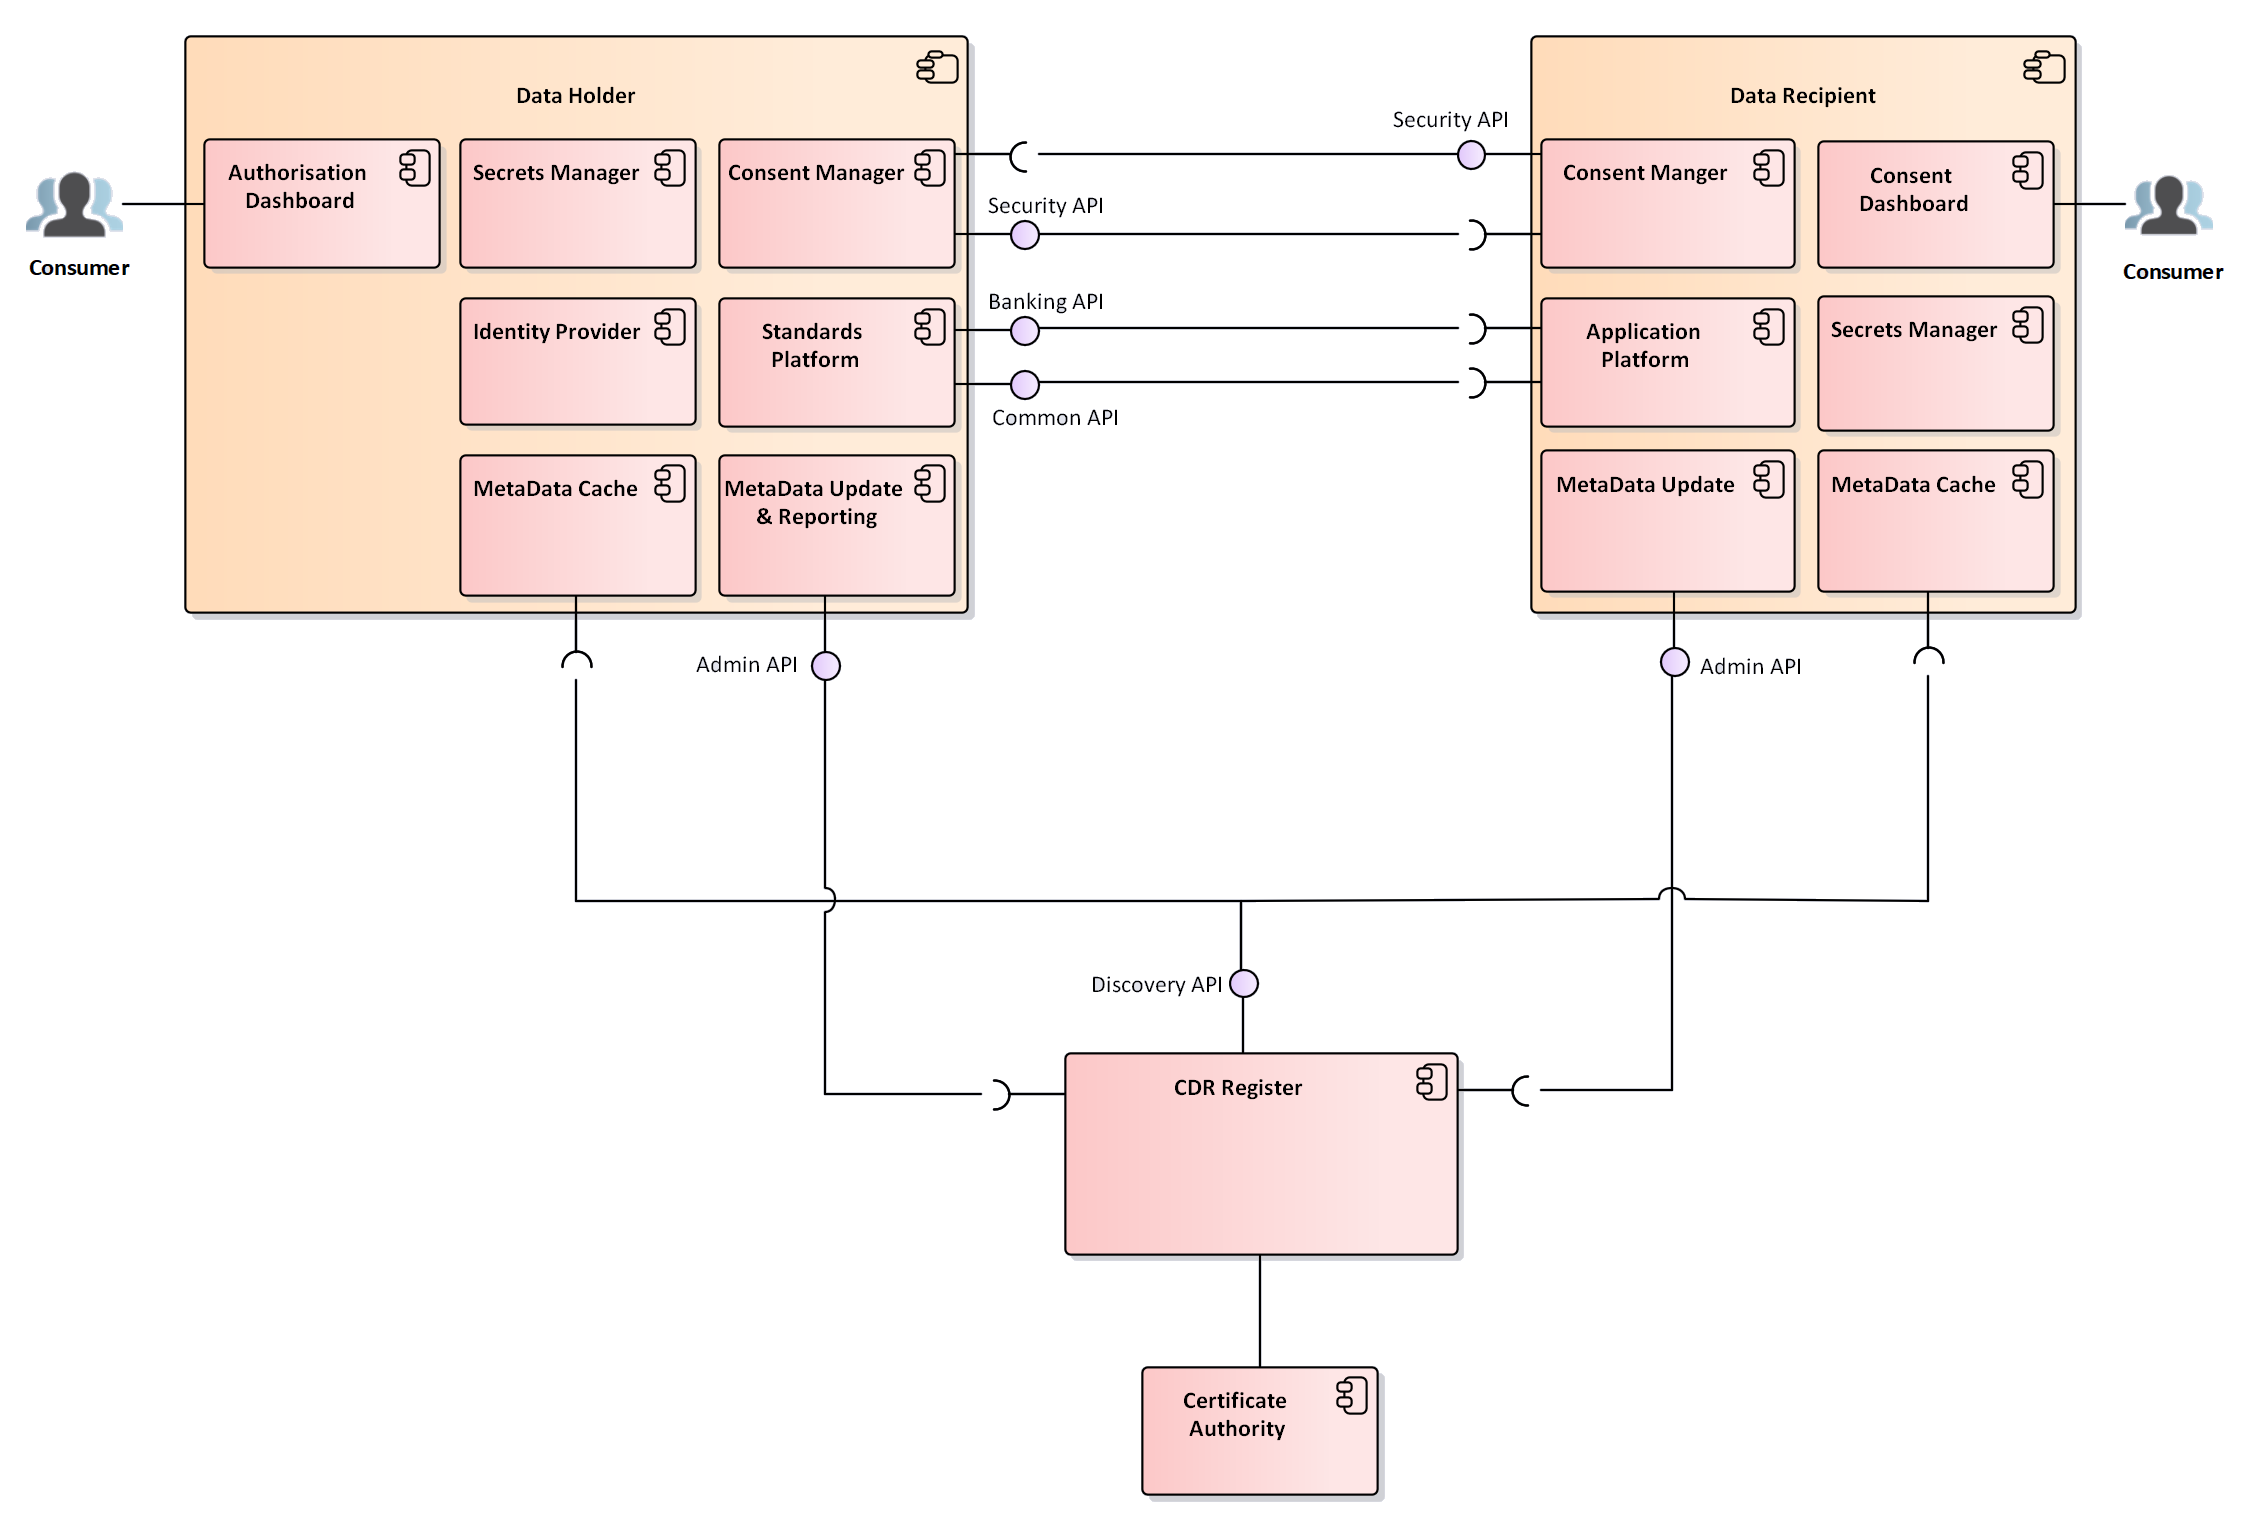
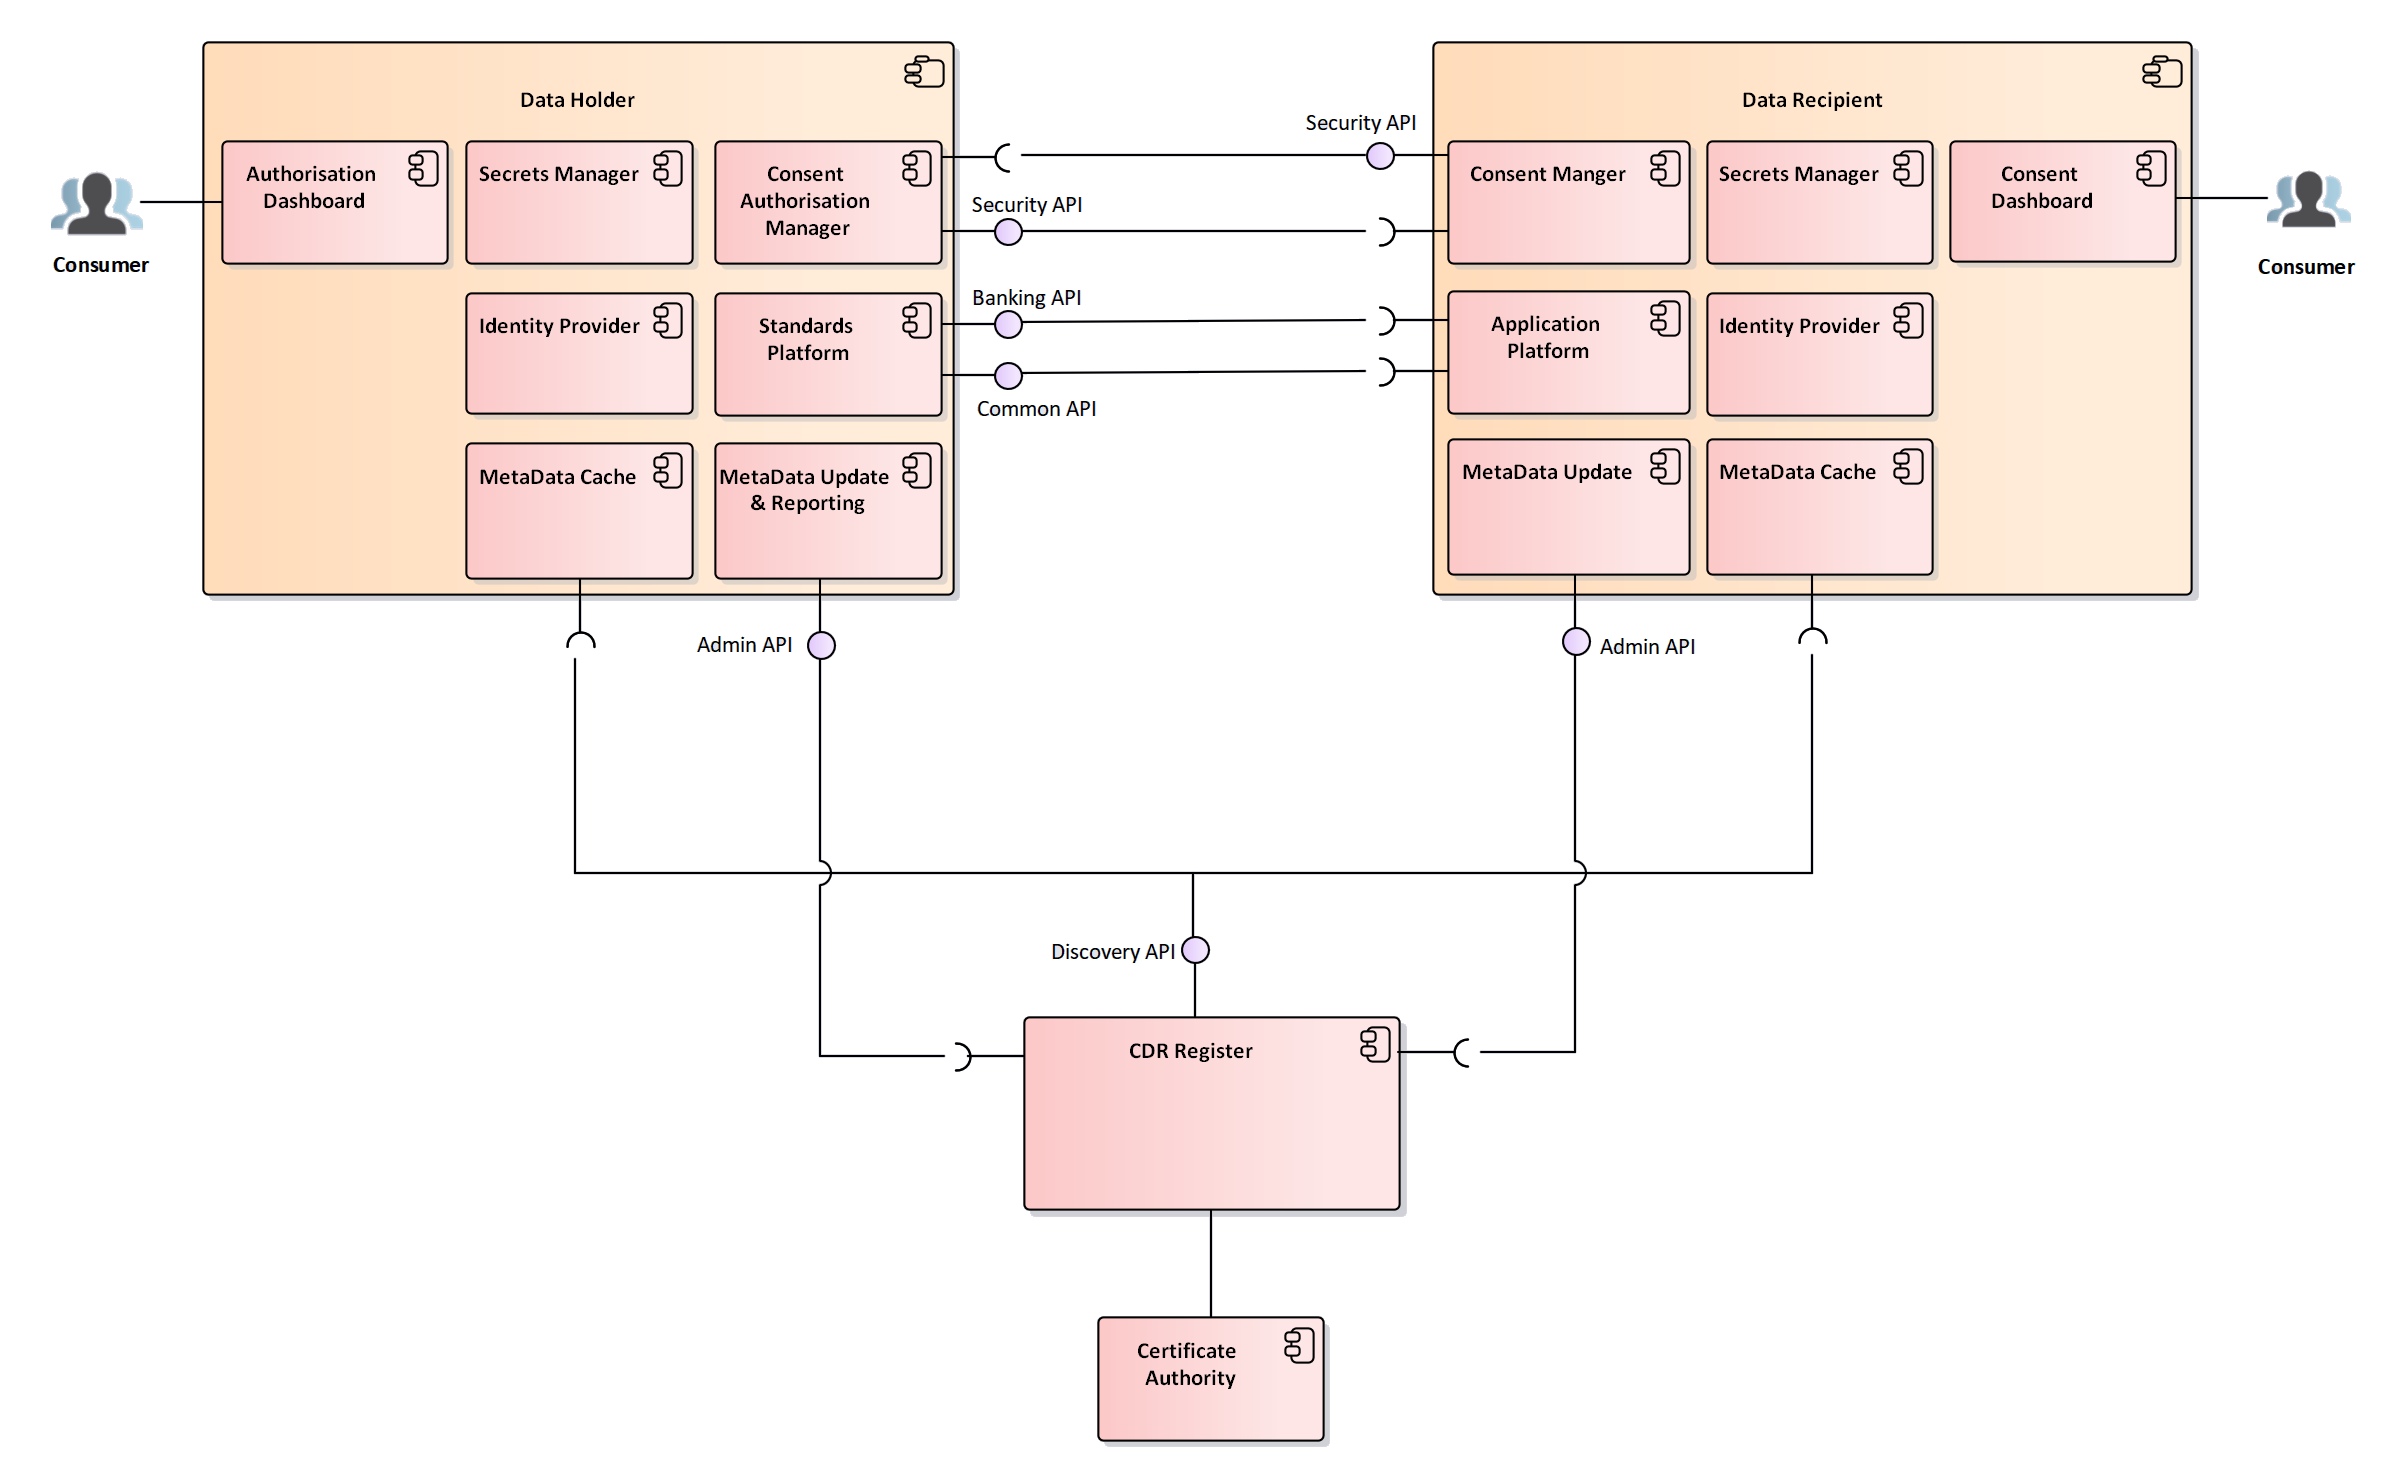
Updated component diagram to reflect ADR Identity Provider Requirement

diff --git a/index.html b/index.html
@@ -300,6 +300,9 @@
             <a href="#certificate-management" class="toc-h1 toc-link" data-title="Certificate Management">Certificate Management</a>
               <ul class="toc-list-h2">
                   <li>
+                    <a href="#accc-certificate-requirements" class="toc-h2 toc-link" data-title="ACCC Certificate Requirements">ACCC Certificate Requirements</a>
+                  </li>
+                  <li>
                     <a href="#issued-by-accc-ca" class="toc-h2 toc-link" data-title="Issued by ACCC CA">Issued by ACCC CA</a>
                   </li>
                   <li>
@@ -403,6 +406,7 @@
       </ul>
         <ul class="toc-footer">
             <li><a href='https://github.com/cdr-register/register'>CDR Register on Github</a></li>
+            <li><a href='https://consumerdatastandards.org.au'>Consumer Data Standards</a></li>
             <li><a href='includes/swagger/swagger.json'>Swagger (JSON)</a></li>
             <li><a href='includes/swagger/swagger.yaml'>Swagger (YAML)</a></li>
         </ul>
@@ -463,9 +467,7 @@ Depending on the number of responses/comments we get, we will assess what the mo
 
 <ul>
 <li>  Business and technical design principles</li>
-<li>  Security Profile and Certificate Management</li>
 <li>  Versioning</li>
-<li>  Register Availability</li>
 </ul>
 <h1 id='consumer-data-right-register'>Consumer Data Right Register</h1>
 <p>The ACCC will perform the role of the CDR Registrar. The CDR Registrar will have the function of maintaining the Register of Accredited Persons (the Register) who have been granted accreditation by the ACCC in its capacity as Data Recipient Accreditor. Accredited persons become accredited data recipients upon receipt of CDR data.</p>
@@ -566,7 +568,7 @@ Discovery API is defined at:
 <li> ACCC has control of access to the Register by CDR participants</li>
 </ol>
 
-<p>ACCC notes that UK Open Banking published the standard Open Banking Dynamic Client Registration v3.2.</p>
+<p>ACCC notes that UK Open Banking published the standard Open Banking Dynamic Client Registration.</p>
 
 <p>This standard allows for Accredited Data Recipients to dynamically register with Data Holders within the system.
 However, the CDR Register is designed using Static Client Registration to satisfy the above requirements</p>
@@ -620,7 +622,7 @@ Cache refreshes may be requested in the following scenarios:</p>
 <p>(b)   obligations on Data Holders and Accredited Data Recipients to notify the ACCC of security incidents that may affect the security of the CDR ecosystem – including the way that those incidents should be reported and a practical timeframe for that occurring.</p>
 
 <p><em>Feedback for this section can be lodged at:</em> <a href="https://github.com/cdr-register/register/issues/5">https://github.com/cdr-register/register/issues/5</a></p>
-<h1 id='certificate-management'>Certificate Management</h1>
+<h1 id='certificate-management'>Certificate Management</h1><h2 id='accc-certificate-requirements'>ACCC Certificate Requirements</h2>
 <ul>
 <li><p>ACCC requires the ability to suspend or revoke the accreditation of a Data Recipient and thereby prevent the transfer of consumer data from a Data Holder to that Data Recipient</p></li>
 <li><p>ACCC requires consumers to be able to withdraw authorisation via their Data Holder</p></li>
@@ -2670,6 +2672,12 @@ Security requirements are subject to change as they are currently under internal
 <th>Detail Of change</th>
 </tr>
 </thead><tbody>
+<tr>
+<td>09/07/2019</td>
+<td>0.1.0</td>
+<td>Update to Consumer Data Right Register Section</td>
+<td>Updated component diagram to reflect Identity Provider requirements for Data Recipients</td>
+</tr>
 <tr>
 <td>08/07/2019</td>
 <td>0.1.0</td>
